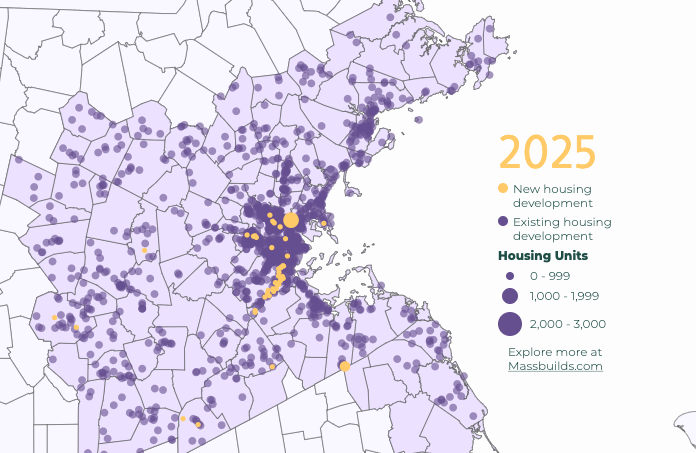
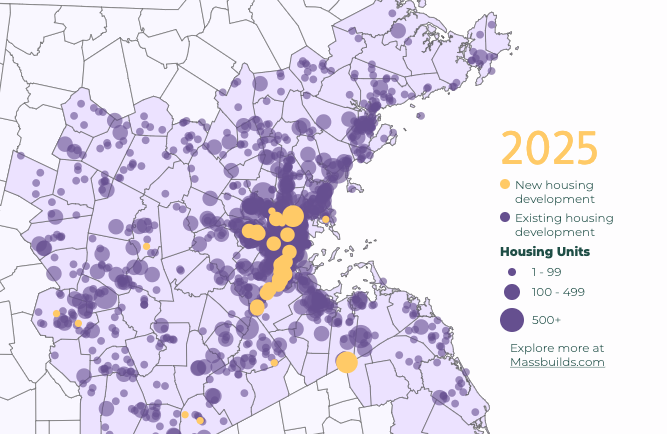
Update radius scale and tooltip title line height
* Adjusting the radius scale gave us a slightly different end map, so this commit also updates the image used for March in the gallery

diff --git a/app/javascript/pages/components/gallery/2020/March.jsx b/app/javascript/pages/components/gallery/2020/March.jsx
@@ -50,15 +50,15 @@ const drawLegend = (selection) => {
   const legendText = {
     housing: {
       sizeText: 'Housing Units',
-      sizeOneText: '0 - 999',
-      sizeTwoText: '1,000 - 1,999',
-      sizeThreeText: '2,000 - 3,000',
+      sizeOneText: '1 - 99',
+      sizeTwoText: '100 - 499',
+      sizeThreeText: '500+',
     },
     commercial: {
       sizeText: 'Commercial square feet',
-      sizeOneText: '0 - 999,999',
-      sizeTwoText: '1,000,000 - 1,999,999',
-      sizeThreeText: '2,000,000 - 3,000,000',
+      sizeOneText: '1 - 99,999',
+      sizeTwoText: '100,000 - 499,999',
+      sizeThreeText: '500,000+',
     },
   };
   d3.select('.d3-map__legend').remove();
@@ -181,12 +181,23 @@ const drawMap = (newDevelopments, selection) => {
     .rotate([71.057, 0])
     .center([0.395, 42.37])
     .translate([960 / 2, 500 / 2]);
-  const housingRadius = d3.scaleQuantize()
-    .domain([0, 3000])
-    .range([4, 8, 12]);
-  const commercialRadius = d3.scaleQuantize()
-    .domain([0, 3000000])
-    .range([4, 8, 12]);
+  const housingRadius = (size) => {
+    if (size < 100) {
+      return 4;
+    } if (size < 500) {
+      return 8;
+    }
+    return 12;
+  };
+
+  const commercialRadius = (size) => {
+    if (size < 100000) {
+      return 4;
+    } if (size < 500000) {
+      return 8;
+    }
+    return 12;
+  };
 
   const dataByYear = [
     newDevelopments.filter((d) => d.attributes.year_compl === 2015),
@@ -338,7 +349,11 @@ const March = () => {
       <p>Anyone living or working in Metro Boston is no stranger to the sights and sounds of construction happening around them. It can feel like our region is constantly under development. While many know about a specific development in their community or next to their office it’s hard to know: What is the regional picture? Where is most of this development happening? How close does the construction of new housing units get us to our production goals? Where will jobs be located in the future? MAPC’s MassBuilds database can help answer these questions.</p>
       <p>MassBuilds is a collaborative data inventory that provides a picture of the region’s growth through a website that allows users to view, download, and contribute information about thousands of development projects recently completed or in the pipeline. This map of MassBuilds data shows projects completed since 2015 as well as those in or nearing construction in the next five years. Together this group totals 128,374 housing units and 100.86 million sqft of commercial development. 1,310 developments in the Inner Core account for 72% of the housing and 70% of the commercial square footage, with the balance distributed across 864 developments elsewhere in the region. Office and medical space has dominated the majority of commercial square footage development, accounting for 35% percent of all tracked development from 2015 to 2020. This database also shows a move towards transit-oriented development. 65% of all housing units and commercial square footage from 2015-2025 are within ½ mile of a commuter rail or rapid transit station. This may help explain the low residential parking rates. For residential projects with information about parking, we see an average of 0.68 spaces per unit for developments completed 2015-2019 and compared to 0.60 spaces per unit projected for developments with a completion date of 2020-2025.</p>
       <p>
-Data like this helps shape our region and is available because MassBuilds collects it across geographic boundaries. Tracking and anticipating development across Metro Boston is challenging. Each municipality has its own planning office and building inspector, and information about development is often scattered across multiple websites or sitting in spreadsheets across the region. MassBuilds allows municipalities, and state agencies get a fuller picture of development trends in real time as they regulate and invest in sustainable and equitable development. However, this system is just the beginning of a broader vision. Without a regional system for development applications or building permits, housing and job growth is usually measured after the fact with disparate data sources that often lack detailed information. One day we hope to move to a more integrated regional system that encourages the collection of this data within the development process: projects could be tagged when a construction or occupancy permit is awarded, site plans could automatically track information about parking and affordability, and projects of all sizes could be automatically tracked across the region. Learn more about MassBuilds and contribute data by creating a free account at <a href="https://www.massbuilds.com" className="calendar-viz__link">www.MassBuilds.com</a> today.
+Data like this helps shape our region and is available because MassBuilds collects it across geographic boundaries. Tracking and anticipating development across Metro Boston is challenging. Each municipality has its own planning office and building inspector, and information about development is often scattered across multiple websites or sitting in spreadsheets across the region. MassBuilds allows municipalities, and state agencies get a fuller picture of development trends in real time as they regulate and invest in sustainable and equitable development. However, this system is just the beginning of a broader vision. Without a regional system for development applications or building permits, housing and job growth is usually measured after the fact with disparate data sources that often lack detailed information. One day we hope to move to a more integrated regional system that encourages the collection of this data within the development process: projects could be tagged when a construction or occupancy permit is awarded, site plans could automatically track information about parking and affordability, and projects of all sizes could be automatically tracked across the region. Learn more about MassBuilds and contribute data by creating a free account at
+        {' '}
+        <a href="https://www.massbuilds.com" className="calendar-viz__link">www.MassBuilds.com</a>
+        {' '}
+today.
       </p>
       <p><em>All statistics up-to-date as of 9:30am, 2/28/2020, only projects in the MAPC region analyzed.</em></p>
     </>

diff --git a/app/javascript/styles/components/visualizations/D3Map.scss b/app/javascript/styles/components/visualizations/D3Map.scss
@@ -99,6 +99,7 @@
     font-family: 'Montserrat';
     font-size: .75rem;
     font-weight: 800;
+    line-height: 1rem;
     margin: 0;
   }
 
